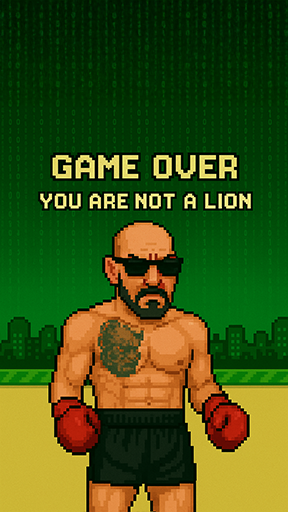
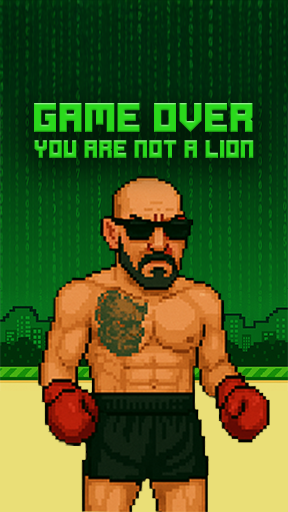
End screen and score finished

diff --git a/lib/main.dart b/lib/main.dart
@@ -321,22 +321,28 @@ class _GameScreenState extends State<GameScreen> {
                         'assets/images/end_screen.png',
                         fit: BoxFit.cover,
                       ),
-                      Container(
-                        color: Colors.black54, // Optional: darken for contrast
-                      ),
-                      Center(
-                        child: Column(
-                          mainAxisSize: MainAxisSize.min,
-                          children: [
-                            Text(
-                              'Score: $score',
-                              style: TextStyle(
-                                fontSize: 32,
-                                color: Colors.white,
-                                fontWeight: FontWeight.bold,
-                              ),
+                      // Score number only, centered in top 60 pixels
+                      Positioned(
+                        top: 0,
+                        left: 0,
+                        right: 0,
+                        height: 60,
+                        child: Center(
+                          child: Text(
+                            '$score',
+                            style: TextStyle(
+                              fontSize: 44,
+                              color: Colors.white,
+                              fontWeight: FontWeight.bold,
+                              shadows: [
+                                Shadow(
+                                  blurRadius: 8,
+                                  color: Colors.black54,
+                                  offset: Offset(2, 2),
+                                ),
+                              ],
                             ),
-                          ],
+                          ),
                         ),
                       ),
                     ],
